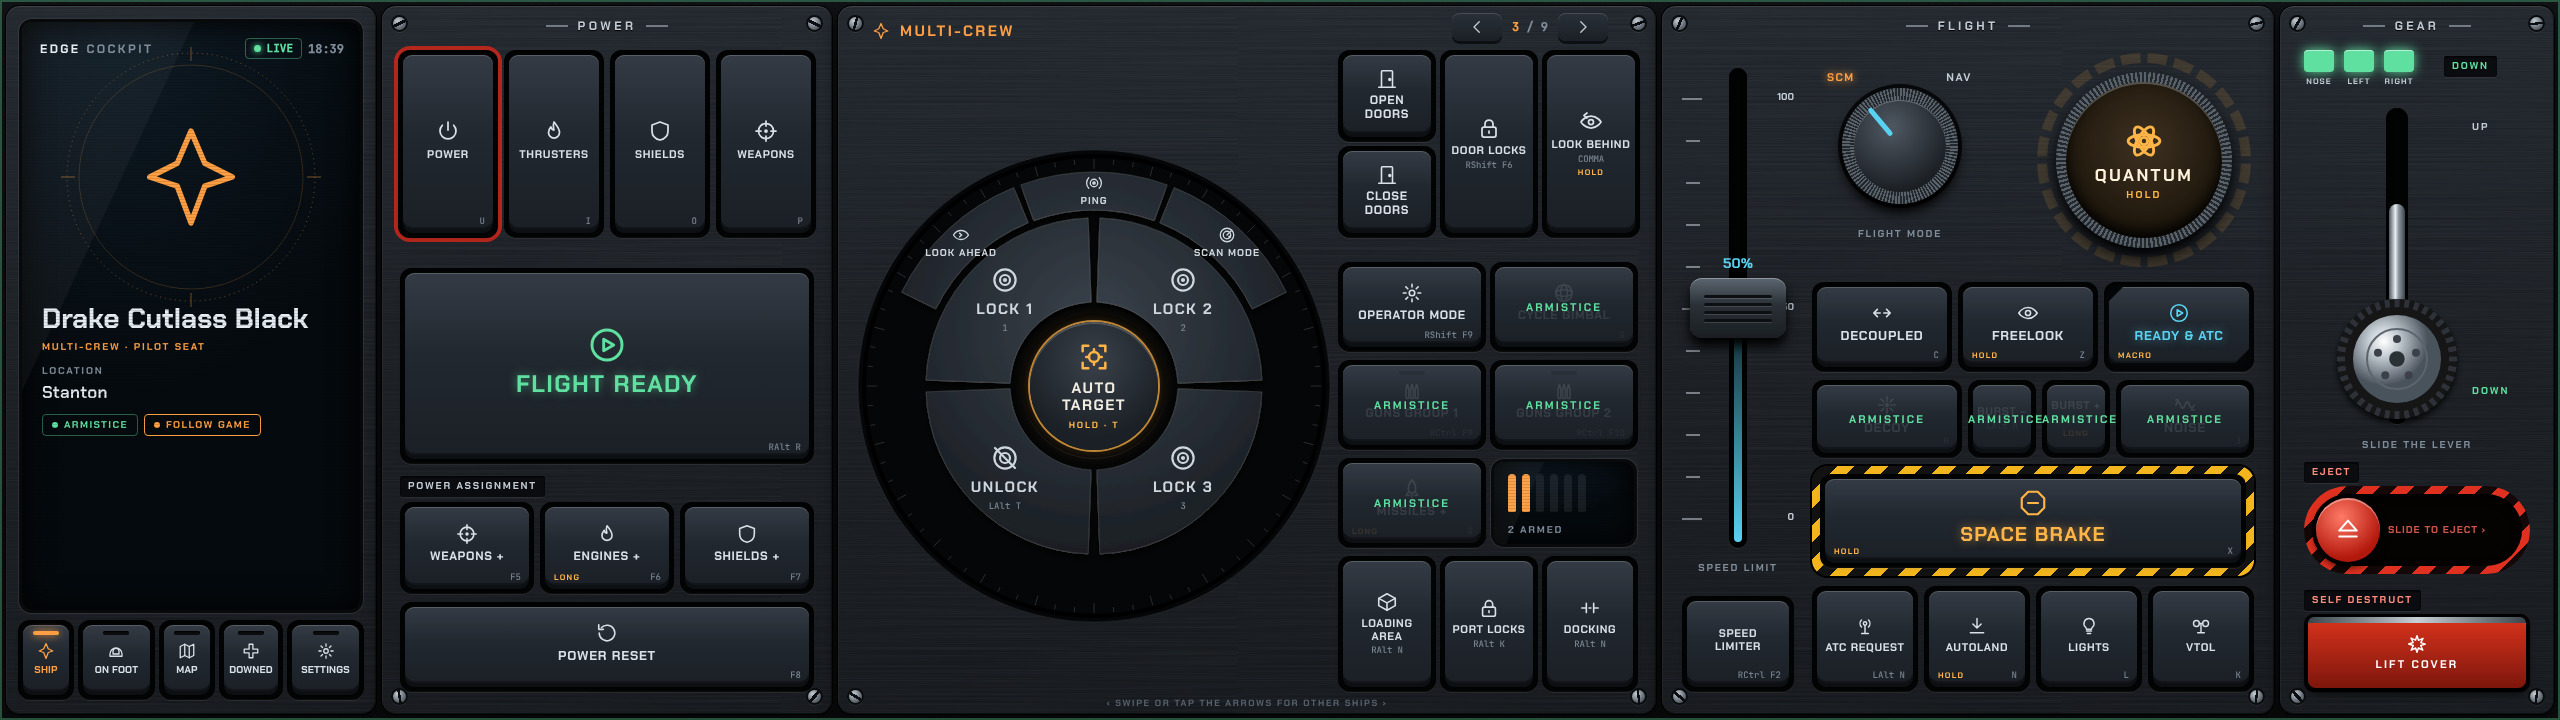
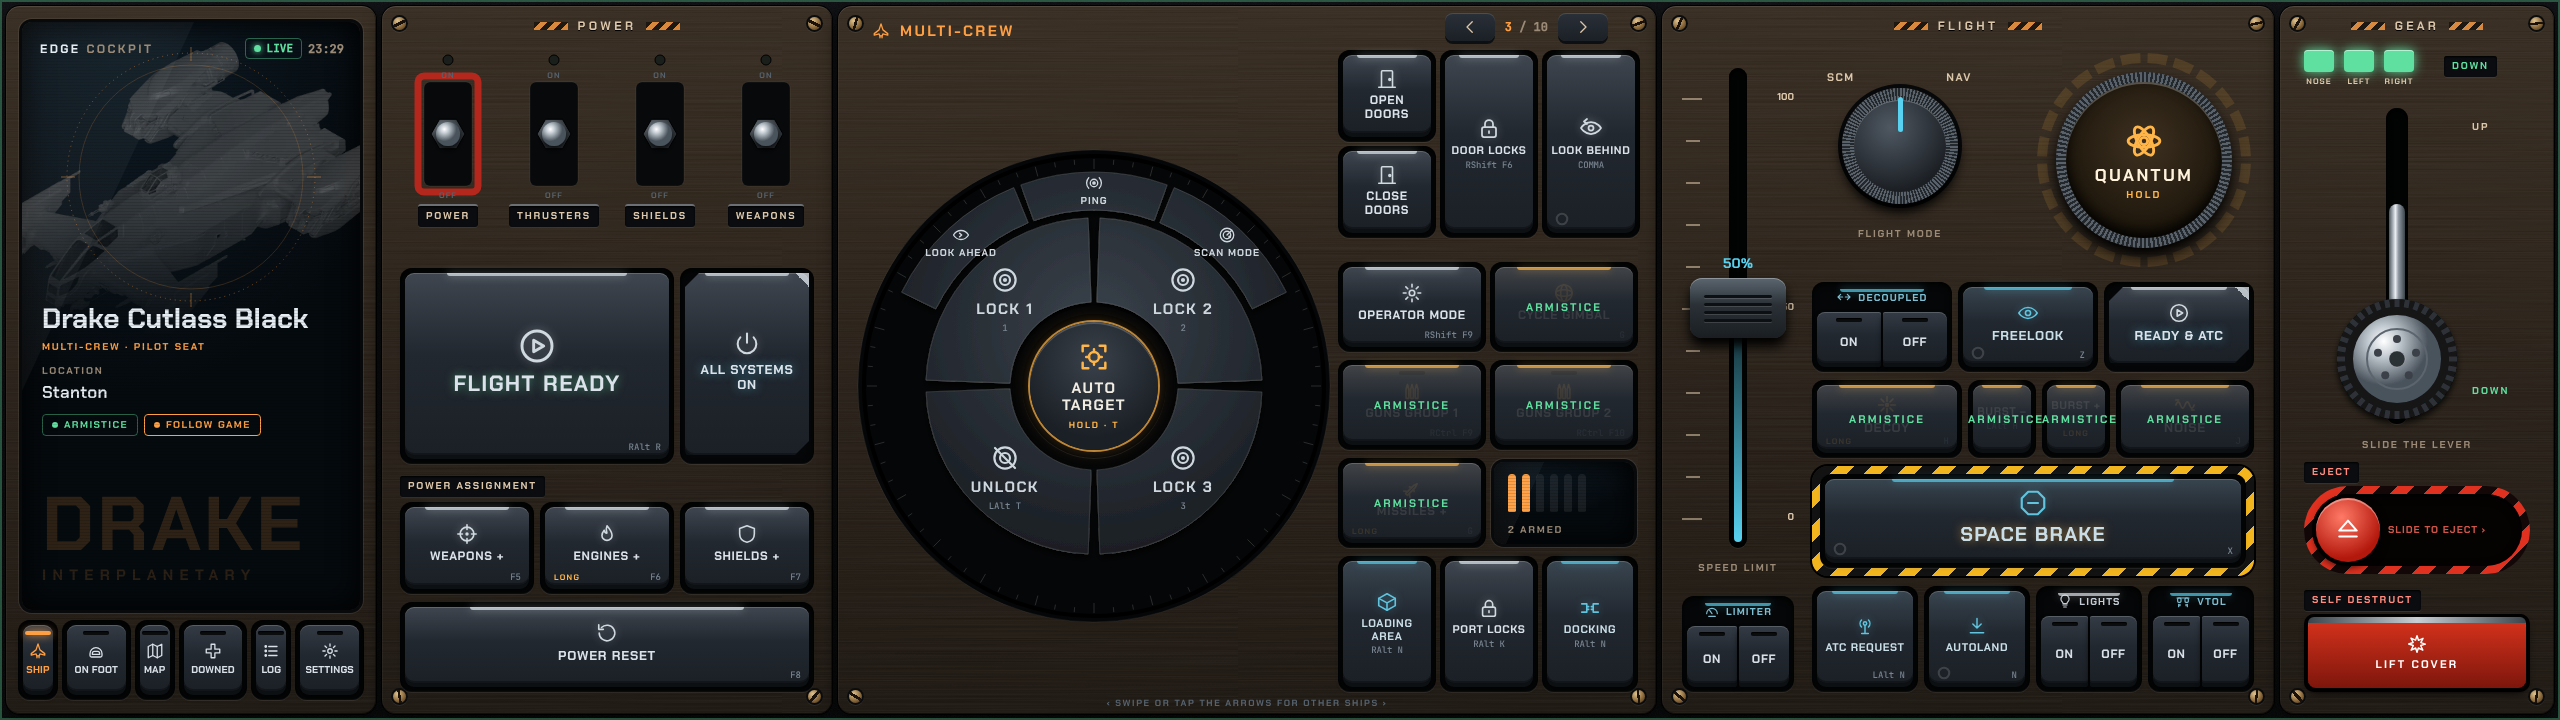
Version 0.5.0: README, site and screenshots (#28)
* README and site: new screenshots and everything since 0.4.0

Claude-Session: https://claude.ai/code/session_019a7Xd5R1iTRyBGREd16EGj

* Version 0.5.0

Claude-Session: https://claude.ai/code/session_019a7Xd5R1iTRyBGREd16EGj

---------

diff --git a/site/index.html b/site/index.html
@@ -71,9 +71,9 @@
   <article class="feat">
     <div class="feat-text">
       <h3>Follows the game</h3>
-      <p>It reads the game's log while you play. Board a ship and its page opens in the maker's colours, with its outline, role and quantum target. Step out and you get On foot. Go down and a big revive button is waiting.</p>
+      <p>It reads the game's log while you play. Board a ship and its page opens in the maker's colours, with a render of the ship, its role and quantum target. Drake, Aegis, Origin, MISC and Anvil ships also get their maker's plates and trim. Step out and you get On foot. Go down and a big revive button is waiting.</p>
     </div>
-    <a class="shot" href="img/panel-onfoot.png"><img src="img/panel-onfoot.png" width="2560" height="720" loading="lazy" alt="On-foot page with weapon wheel, suit and comms"></a>
+    <a class="shot" href="img/panel-armistice.png"><img src="img/panel-armistice.png" width="2560" height="720" loading="lazy" alt="A Drake Cutlass in an armistice zone, with its render and Drake plates"></a>
   </article>
 
   <article class="feat">
@@ -94,10 +94,18 @@
 
   <article class="feat">
     <div class="feat-text">
+      <h3>Your session, logged</h3>
+      <p>The Log page shows time played, kills, times downed, missions and ships flown. It also shows who downed you last and with what, your region and shard, the last jump, finished refinery jobs, and a timeline of the session.</p>
+    </div>
+    <a class="shot" href="img/panel-log.png"><img src="img/panel-log.png" width="2560" height="720" loading="lazy" alt="Log page with session stats and a timeline"></a>
+  </article>
+
+  <article class="feat">
+    <div class="feat-text">
       <h3>Your keys, not new ones</h3>
       <p>It reads your <code>actionmaps.xml</code>, so keys you rebound in game just work. The game keeps focus while you tap. Settings lists any key the console can't press.</p>
     </div>
-    <a class="shot" href="img/panel-settings.png"><img src="img/panel-settings.png" width="2560" height="720" loading="lazy" alt="Settings with keybind check and what's new"></a>
+    <a class="shot" href="img/panel-settings.png"><img src="img/panel-settings.png" width="2560" height="720" loading="lazy" alt="Screen settings with the maker theme"></a>
   </article>
 
   <ul class="grid">
@@ -106,6 +114,9 @@
     <li><b>Night mode</b><span>On, off, or automatic from 20:00 to 07:00.</span></li>
     <li><b>Updates when you're docked</b><span>A new release is offered with its notes, and only while you're not playing.</span></li>
     <li><b>Light</b><span>A 1.5 MB installer. Nothing animates while the console is idle.</span></li>
+    <li><b>When it goes wrong</b><span>A disabled ship swaps Flight Ready for Self repair and Emergency exit. An amber chip shows when your client stalls.</span></li>
+    <li><b>MFD &amp; assists</b><span>A key for each MFD screen, and switches for light amplification, auto precision and wind compensation.</span></li>
+    <li><b>Fresh start</b><span>When the game restarts with a new log, the console starts over with it.</span></li>
     <li><b>No accidents</b><span>Eject is a slide and self-destruct sits under a red cover, so neither fires on a stray tap.</span></li>
   </ul>
 </section>

diff --git a/site/build.py b/site/build.py
@@ -18,7 +18,7 @@ REPO = "https://github.com/pcanilho/edge-cockpit"
 ROOT = Path(__file__).resolve().parent.parent
 SITE = ROOT / "site"
 FONTS = {"chakra-petch": [600, 700], "inter": [400, 500, 600], "jetbrains-mono": [500]}
-IMAGES = ["panel", "panel-onfoot", "panel-mining", "panel-alert", "panel-settings", "social-preview"]
+IMAGES = ["panel", "panel-armistice", "panel-mining", "panel-alert", "panel-settings", "panel-log", "social-preview"]
 
 
 def release_fields(path):

diff --git a/README.md b/README.md
@@ -29,7 +29,7 @@ It finds the touchscreen by itself (or pick one in **Settings > Screen**), and h
 
 ## The console
 
-Every ship page has a power plate with a big **Flight Ready** button, a module for your ship's role, a flight plate and a gear plate. The role module is a target dial for fighters, a laser power knob for mining, a beam head for salvage, a tractor beam slider for cargo, and so on. Swipe it sideways or tap the arrows to see the others. No key appears twice on a page. To rearrange the plates, long-press a plate's title, drag the plates and tap **Done**. The order is saved for each role. On foot you get a weapon wheel, your suit and comms, and an Emotes page with hand signals and emotes. Downed, a big revive button.
+Every ship page has a power plate with a big **Flight Ready** button, a module for your ship's role, a flight plate and a gear plate. The role module is a target dial for fighters, a laser power knob for mining, a beam head for salvage, a tractor beam slider for cargo, and so on. Swipe it sideways or tap the arrows to see the others. No key appears twice on a page. To rearrange the plates, long-press a plate's title, drag the plates and tap **Done**. The order is saved for each role. On foot you get a weapon wheel, your suit and comms, and an Emotes page with hand signals and emotes. Downed, a big revive button. The **MFD & assists** page has a key for each MFD screen, ON/OFF switches for light amplification, auto precision and wind compensation, and Self repair all. The **Log** page shows this session: time played, kills, times downed, missions, ships flown, who downed you last, region and shard, the last jump, finished refinery jobs, and a timeline.
 
 | | |
 | --- | --- |
@@ -38,7 +38,9 @@ Every ship page has a power plate with a big **Flight Ready** button, a module f
 | ![Armistice](docs/panel-armistice.png) | ![Red alert](docs/panel-alert.png) |
 | Weapons grey out in armistice zones | Red alert with a CrimeStat |
 | ![Downed](docs/panel-downed.png) | ![Settings](docs/panel-settings.png) |
-| The Downed page opens when you go down | Settings and what's new |
+| The Downed page opens when you go down | Settings, with the maker theme |
+| ![Log](docs/panel-log.png) | ![MFD & assists](docs/panel-mfd.png) |
+| Log page: this session at a glance | MFD screens and assists |
 
 | Control | How it works |
 | --- | --- |
@@ -54,10 +56,13 @@ Every ship page has a power plate with a big **Flight Ready** button, a module f
 ## It follows the game
 
 - Opens the page for what you are doing: your ship's role page when you board, On foot when you leave, Downed when you go down.
-- Takes your ship maker's colours and shows its outline, role and quantum target. Behind it sits a dimmed render of the ship over the maker's name. Outlines and renders come from [FleetYards.net](https://fleetyards.net) the first time a ship is seen and are kept on your PC. On foot it shows the ship you last flew.
+- Takes your ship maker's colours and shows its role and quantum target, with "Arrived" when the drive drops out. Behind it sits a dimmed render of the ship over the maker's name. Renders and outlines come from [FleetYards.net](https://fleetyards.net) the first time a ship is seen and are kept on your PC. On foot it shows the ship you last flew.
+- Maker themes: in a Drake, Aegis, Origin, MISC or Anvil ship, the plates and title trim take that maker's style. **Settings > Screen > Maker theme**: Auto, Off, or one maker always.
 - Shows where you are ("Keeger · Nyx", "Asteroid base · Ungoverned") on a line of the system's planets.
 - Shows your mission: the objective, the contract with its rewards as chips, and where the objective's marker points. Game colour tags, and those of StarStrings and SmartCitizen, are read rather than shown. The game logs no distances, so there are none.
-- Lights a red frame only for a CrimeStat or your ship disabled. Unmonitored or ungoverned space is an amber note.
+- Lights a red frame only for a CrimeStat or your ship disabled. Unmonitored or ungoverned space is an amber note. While the ship is disabled, Flight ready and All systems on become Self repair all and Emergency exit.
+- Shows an amber lag chip when the log reports your client stalled.
+- Starts over when the game restarts and writes a new `Game.log`.
 - Reads your `actionmaps.xml`, so keys you rebound in game just work. **Settings > Keybinds** lists any key the console can't press.
 
 The game doesn't report gear, power, doors, lights or most switches. Where 4.x has separate on and off binds (power, lights, VTOL, limiter, decoupled, G-safe and others), the console uses an ON/OFF switch that sends exactly that state. It shows nothing until you set it, because the console can't know what the ship is doing. **All systems on** sets the main ones in one tap, so the switches match the ship. They go back to unknown when you leave the seat or change ship. Everything else is a push-button (doors get separate Open and Close keys), and the gear lever and missiles show what you last pressed. Hold the EDGE COCKPIT title for 2 seconds to see frame rate, CPU, memory and touch-to-key latency.

diff --git a/CHANGELOG.md b/CHANGELOG.md
@@ -1,6 +1,6 @@
 # Changelog
 
-## Unreleased
+## 0.5.0
 
 - Ship backdrop: behind the status screen, a dimmed render of the ship you sit in over its maker's name. The render comes from FleetYards.net the first time and is kept on your PC; offline, themed makers show line art instead.
 - Maker themes: in a Drake, Aegis, Origin, MISC or Anvil ship, the plates and title trim take on that maker's style (drawn for the app, no game art). Settings > Screen > Maker theme: Auto (follows your ship), Off (also hides the backdrop), or one maker always.
